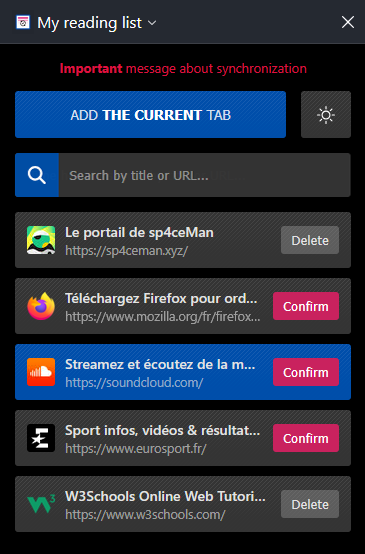
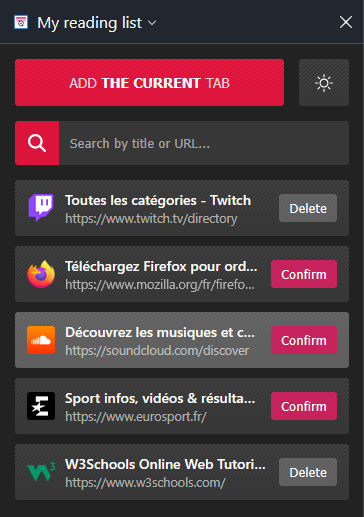
Update

diff --git a/src/index.html b/src/index.html
@@ -7,11 +7,13 @@
 </head>
 <body>
   <header>
-    <button class="aboutsyncBTN"><strong>Important</strong> message about synchronization</button>
-    <div class="aboutsync">
-      <p>This add-on uses <b>synchronization with Firefox Account</b>. If you <b>don't have a Firefox Account with synchronization enabled</b>, you can use this add-on <b>normally</b>. However, <b>if you are using the synchronization with Firefox Account</b>, make sure that <b>"Add-ons"</b> are <b>synced</b>. <b>Firefox</b> can take <b>5-10 minutes</b> to <b>synchronize automatically</b> add-on data. If you want <b>to be sure</b> that <b>the data</b> is <b>synced</b>, I <b>recommend to synchronize</b> it <b>manually</b>. Each time <b>the browser</b> is opened, a <b>synchronization</b> is performed, <b>have fun !</b></p>
-      <button class="aboutsync__gotit"><b>I understand</b> and <b>hide this message</b></button>
-    </div>
+    <!-- MESSAGE FOR SYNCHRONIZATION
+      <button class="aboutsyncBTN"><strong>Important</strong> message about synchronization</button>
+      <div class="aboutsync">
+        <p>This add-on uses <b>synchronization with Firefox Account</b>. If you <b>don't have a Firefox Account with synchronization enabled</b>, you can use this add-on <b>normally</b>. However, <b>if you are using the synchronization with Firefox Account</b>, make sure that <b>"Add-ons"</b> are <b>synced</b>. <b>Firefox</b> can take <b>5-10 minutes</b> to <b>synchronize automatically</b> add-on data. If you want <b>to be sure</b> that <b>the data</b> is <b>synced</b>, I <b>recommend to synchronize</b> it <b>manually</b>. Each time <b>the browser</b> is opened, a <b>synchronization</b> is performed, <b>have fun !</b></p>
+        <button class="aboutsync__gotit"><b>I understand</b> and <b>hide this message</b></button>
+      </div>
+    -->
     <div class="addAndTheme">
       <button id="add">
         <span class="opacity">Add</span> <strong>the current</strong> <span class="opacity">tab</span>

diff --git a/src/css/style.css b/src/css/style.css
@@ -1,10 +1,12 @@
 :root[data-theme="dark"] {
-  --primary-color: #000000;
-  --secondary-color: #222;
-  --secondary-color-hover: #313131;
-  --text-color: #e1e1e1;
+  --primary-color: #222;
+  --secondary-color: #373737;
+  --secondary-color-hover: #4d4d4d;
+  --third-color: crimson;
+  --third-color-hover: rgb(236, 14, 59);
+  --text-color: #ffffff;
   --list-background-color: var(--secondary-color);
-  --list-background-color-hover: #0a4ea4;
+  --list-background-color-hover: #5f5f5f;
   --btn-delete-background-color: rgba(255, 255, 255, 0.2);
   --btn-delete-background-color-hover: rgba(255, 255, 255, 0.3);
   --background-pattern: url(../images/pattern_white.png);
@@ -14,6 +16,8 @@
   --primary-color: #fff;
   --secondary-color: #e5e5e5;
   --secondary-color-hover: #cccccc;
+  --third-color: black;
+  --third-color-hover: #0067de;
   --text-color: #000;
   --list-background-color: var(--secondary-color);
   --list-background-color-hover: #ffe494;
@@ -59,7 +63,7 @@ header {
 
 .search__icon {
   position: absolute;
-  background-color: #0a4ea4;
+  background-color: var(--third-color);
   color: white;
   height: 44px;
   width: 44px;
@@ -220,7 +224,7 @@ header {
 }
 
 #add {
-  background-color: #0a4ea4;
+  background-color: var(--third-color);
   color: #ffffff;
   cursor: pointer;
   padding: 15px 15px;
@@ -232,10 +236,11 @@ header {
   flex: 1;
   background-image: url(../images/pattern_white.png);
   background-repeat: repeat-x;
+  
 }
 
 #add:hover {
-  background-color: #0f66d9;
+  background-color: var(--third-color-hover);
 }
 
 .aboutsync {
